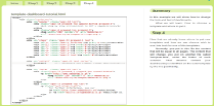
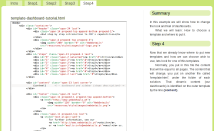
support page updated, olapUtil exclude after expand fixed, openflashchart documentation updated

Changed region(s): [[0.0, 0.0, 1.0, 1.0]]

diff --git a/solution/bi-developers/cdf-samples/40-support/template.html b/solution/bi-developers/cdf-samples/40-support/template.html
@@ -78,7 +78,7 @@
 						    <span  class="header3"><em>3. </em>Secure / Prompt</span>
 
 						    <p>
-						    Show only the valid options in accordance with choices made previously.
+						    Give a better input to your reports.
 						    </p>
 						</div>
 					</div>
@@ -102,7 +102,7 @@
 						    <span class="header3"><em>5. </em>Templates</span>
 
 						    <p>
-						    Change the look and feel of your dashboards.
+						    Change the look and feel of your dashboards. 
 						    </p>
 						</div>
 					</div>
@@ -114,7 +114,7 @@
 						    <span class="header3"><em>6. </em>Timeplots</span>
 
 						    <p>
-						    ...
+						    Interact with timeseries charts. 
 						    </p>
 						</div>
 					</div>
@@ -126,7 +126,7 @@
 						    <span class="header3"><em>7. </em>Roles</span>
 
 						    <p>
-						    Create only one dashboard that can be used by colaborators with different roles.
+						    Create only one dashboard that can be used by colaborators with different roles. 
 						    </p>
 						</div>
 					</div>
@@ -138,7 +138,7 @@
 						    <span class="header3"><em>8. </em>Dial & Traffic Charts</span>
 
 						    <p>
-						    Have an immediate idea about the evolution of your business, using analogies.
+						    Have an immediate idea about the evolution of your business.
 						    </p>
 						</div>
 					</div>
@@ -162,7 +162,7 @@
 						    <span class="header3"><em>10. </em>Table & Sparklines</span>
 
 						    <p>
-						    Build tables with visual impact.
+						    Build tables with visual impact. 
 						    </p>
 						</div>
 					</div>
@@ -194,8 +194,9 @@
 		
 		<h3><a href="http://store.kagi.com/cgi-bin/store.cgi?storeID=6FHAR_LIVE">Click here to buy the CDF Tutorial</a></h3>
 		
+		<b>By doing so you will: </b>
 		<ul>
-			<li>Have the source so that you can see how everything is built</li>
+			<li>Have the source - so that you can see how everything is built</li>
 		
 			<li>Get free updates made to the tutorial for 1 year</li>
 			

diff --git a/solution/bi-developers/cdf-samples/40-support/scrollable/scrollable-navig.css b/solution/bi-developers/cdf-samples/40-support/scrollable/scrollable-navig.css
@@ -94,7 +94,7 @@ a.prev, a.next {
 	float:left;
 	width:214px;
 	height:300px;
-	background:#333 url(GetCDFResource?resource=/bi-developers/cdf-samples/40-support/scrollable/scrollable-gradient.png) repeat-x 0 146px;
+	background:#333 url(GetCDFResource?resource=/bi-developers/cdf-samples/40-support/scrollable/scrollable-gradient.png) repeat-x 0 170px;
 	color:#fff;
 	border-left:1px solid #333;
 	cursor:pointer;

diff --git a/solution/bi-developers/cdf-samples/30-documentation/30-component_reference/10-core/26-OpenFlashChartComponent/template.html b/solution/bi-developers/cdf-samples/30-documentation/30-component_reference/10-core/26-OpenFlashChartComponent/template.html
@@ -28,7 +28,7 @@
 			<dd>The name of the component</dd>
 
 			<dt>type</dt>
-			<dd><code>jFreeChartComponent</code></dd>
+			<dd><code>openFlashChartComponent</code></dd>
 
 			<dt>listeners</dt>
 			<dd><i>Array - </i> Parameters who this component will react to</dd>

diff --git a/bi-platform-v2-plugin/cdf/js/OlapUtils.js b/bi-platform-v2-plugin/cdf/js/OlapUtils.js
@@ -103,6 +103,7 @@ OlapUtils.fireMdxGroupAction = function( mdxQueryGroup,idx, value){
 	if (clickedObj.mdxQuery.axisDepth > 0){
 		delete buttonsHash["Drill Down"];
 		delete buttonsHash.Focus;
+		delete buttonsHash.Exclude;
 	}
 
 
